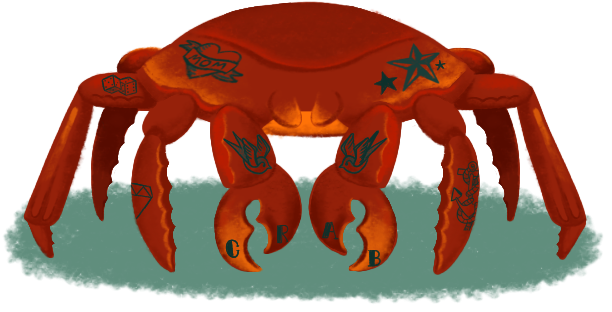
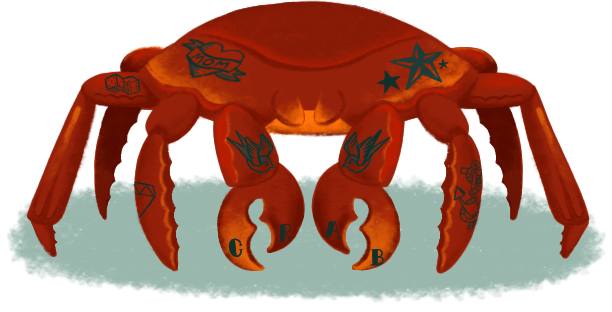
oct 7th

diff --git a/Draw_interaction.js b/Draw_interaction.js
@@ -8,9 +8,18 @@ function prepareInteraction() {
    tatcrabImage =  loadImage('images/tatcrab.png');
    partycrabImage =  loadImage('images/partycrab.png');
    doublecrabImage =  loadImage('images/doublecrab.png');
+   clawcrabImage =  loadImage('images/clawcrab.png');
+   clawcrab2Image =  loadImage('images/clawcrab2.png');
+   nemoImage =  loadImage('images/nemo.png');
+  doryImage =  loadImage('images/dory.png');
+  fishMove = 960;
+  Yvalue = 0;
+
 }
 
 function drawInteraction(faces, hands) {
+
+image(bgImage,0,0,1280,960)
 
   // hands part
   // USING THE GESTURE DETECTORS (check their values in the debug menu)
@@ -29,11 +38,22 @@ function drawInteraction(faces, hands) {
     /*
     Start drawing on the hands here
     */
+  
+ if(detectHandGesture = "Open Palm"){
+      image(doryImage,fishMove,850,200,100)
+fishMove = fishMove-1;
+      //animate a bunch of these fish to swim past if they see thumbs up??
+    }
+    if(fishMove <=100){ 
+   fishMove = 960;
+}
+if (hand.handedness === "Left") {
 
-    // pinchCircle(hand)
-    fill(225, 225, 0);
-    ellipse(indexFingerTipX, indexFingerTipY, 30, 30);
-
+    push()
+   imageMode(CENTER)
+   image(nemoImage,indexFingerTipX,indexFingerTipY,150,100)
+   pop() 
+}
     /*
     Stop drawing on the hands here
     */
@@ -65,9 +85,18 @@ function drawInteraction(faces, hands) {
     let noseTipX = face.keypoints[4].x;
     let noseTipY = face.keypoints[4].y;
 
-     let testX = face.keypoints[440].x;
-    let testY = face.keypoints[440].y;
+    let LeyeStemX = face.keypoints[423].x;
+    let LeyeStemY = face.keypoints[423].y;
 
+    let ReyeStemX = face.keypoints[203].x;
+    let ReyeStemY = face.keypoints[203].y;
+
+    let toplipX = face.keypoints[12].x;
+    let toplipY = face.keypoints[12].y;
+    let bottomlipX = face.keypoints[14].x;
+    let bottomlipY = face.keypoints[14].y;
+
+  
 
     // console.log(face);
     /*
@@ -84,25 +113,51 @@ function drawInteraction(faces, hands) {
     /*
     Start drawing on the face here
     */
-image(bgImage,0,0,1280,960)
-  strokeWeight(15)
+
+
+
+
+
+  strokeWeight(10)
   stroke(0)
-  line(testX,testY,leftEyeCenterX,leftEyeCenterY)
- line(testX,testY,rightEyeCenterX,rightEyeCenterY)
+  line(LeyeStemX,LeyeStemY,leftEyeCenterX,leftEyeCenterY)
+ line(ReyeStemX,ReyeStemY,rightEyeCenterX,rightEyeCenterY)
 
    let eyedist = dist(leftEyeCenterX,leftEyeCenterY,rightEyeCenterX,rightEyeCenterY)
    console.log(eyedist) //210 and 70
    let crabSize = map(eyedist,210,70,700,150)
   
+    let mouthopen = dist(toplipX,toplipY, bottomlipX,bottomlipY)
+   console.log(mouthopen) //1 and 90
+ 
+   if (mouthopen >= 20  && mouthopen <=50){
+     push()
+   imageMode(CENTER)
+   image(clawcrabImage,noseTipX,noseTipY+75,crabSize+120,crabSize)
+  pop()  
+ }
+
+if (mouthopen < 20){
   push()
    imageMode(CENTER)
    image(crabImage,noseTipX,noseTipY+75,crabSize+120,crabSize)
   pop()
+ }
 
-if (key==='r'){
+if (mouthopen >= 50){
+  push()
+   imageMode(CENTER)
+   image(clawcrab2Image,noseTipX,noseTipY+75,crabSize+120,crabSize)
+  pop()
+ }
+
+
+
+//if (detectHandGesture = "Peace"){
+if (key==='p'){
    push()
    imageMode(CENTER)
-   image(crabImage,noseTipX,noseTipY+75,crabSize+120,crabSize)
+   image(partycrabImage,noseTipX,noseTipY+75,crabSize+120,crabSize)
   pop()  
 }
 
@@ -113,45 +168,38 @@ if (key==='t'){
   pop()  
 }
 
-if (key==='p'){
-   push()
-   imageMode(CENTER)
-   image(partycrabImage,noseTipX,noseTipY+75,crabSize+120,crabSize)
-  pop()  
-}
-
 
 
  strokeWeight(5)
-    fill(255);
+    fill(255, 218, 143);
     // fill(get(leftEyeCenterX, leftEyeCenterY))
-     stroke(255,0,0)
+     stroke(117, 19, 1)
     ellipse(leftEyeCenterX, leftEyeCenterY, leftEyeWidth+20, leftEyeHeight*3);
-    fill(0)
+    fill(117, 19, 1)
       noStroke()
     ellipse(leftEyeCenterX,leftEyeCenterY, 30, leftEyeHeight+10);
    //righteye
-    fill(255);
-     stroke(255,0,0)
+    fill(255, 218, 143);
+     stroke(117, 19, 1)
     ellipse(rightEyeCenterX, rightEyeCenterY, rightEyeWidth+20, rightEyeHeight*3);
-    fill(0)
+    fill(117, 19, 1)
        noStroke()
     ellipse(rightEyeCenterX,rightEyeCenterY, 30, rightEyeHeight+10);
 
 
 
 
-    image(forefrontImage,0,0,1280,960)
+   
 
 
     // fill(225, 225, 0);
     // ellipse(leftEyeCenterX, leftEyeCenterY, leftEyeWidth, leftEyeHeight);
 
-    drawPoints(face.leftEye);
-    drawPoints(face.leftEyebrow);
-    drawPoints(face.lips);
-    drawPoints(face.rightEye);
-    drawPoints(face.rightEyebrow);
+    // drawPoints(face.leftEye);
+    // drawPoints(face.leftEyebrow);
+    // drawPoints(face.lips);
+    // drawPoints(face.rightEye);
+    // drawPoints(face.rightEyebrow);
     /*
     Stop drawing on the face here
     */
@@ -159,6 +207,7 @@ if (key==='p'){
   }
   //------------------------------------------------------
   // You can make addtional elements here, but keep the face drawing inside the for loop. 
+   image(forefrontImage,0,0,1280,960)
 }
 
 
